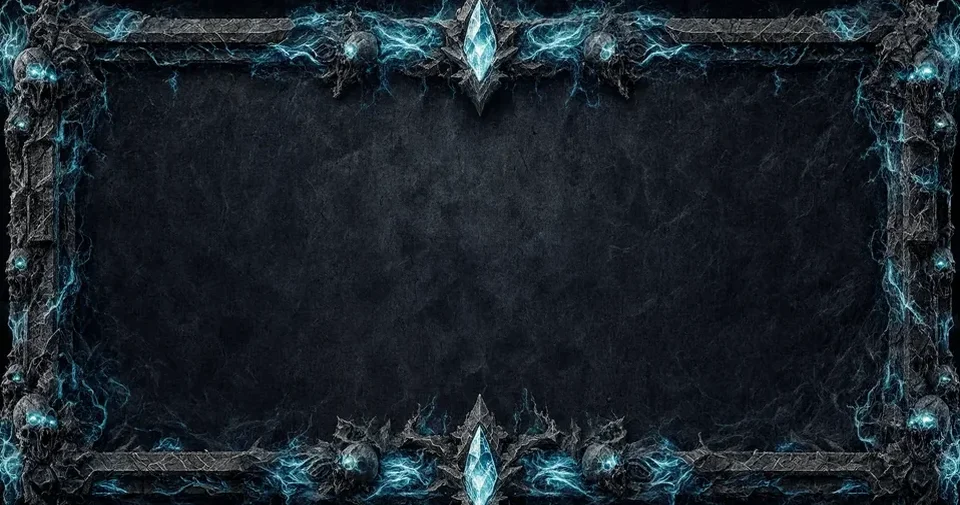
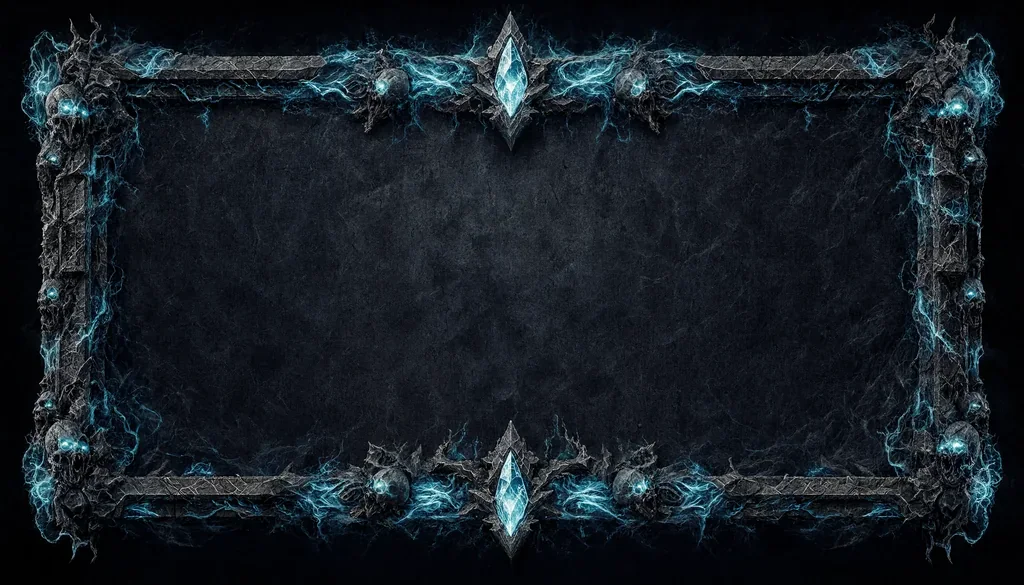
Rayon Herauts : le cadre grave suit les images completes (1024 x 585)
Les huit fichiers public/herauts/*.webp sont remplaces par des images
COMPLETES, 1024 x 585 au lieu de 960 x 505 : la gemme du haut, les pointes et
les coins sont dans le fichier. Les huit sont indexes avec le code.

.heraut-cadre : aspect-ratio 1024 / 585 (cover, centre) -- le cadre se montre
entier, plus aucune coupe. .heraut-dedans, l ouverture de pierre mesuree sur
ces images : 13 % de retrait a gauche et a droite, 20 % en haut et en bas
(valeurs finales, sans ajustement). Les commentaires decrivent la realite :
images completes, plus aucun rognage. Il n y a qu un rendu du cadre (le rayon)
: aucune fenetre d achat ne porte ses propres dimensions.

Verifie a l ecran avec ?test-rotation=1 sur les huit Herauts, en 390 x 844 et
375 x 667 : le cadre est entier (gemmes, pointes, coins), le portrait tient la
gauche de l ouverture (13 a 36,5 % de la largeur) et le nom et la capacite la
droite (39 a 87 %), tous deux entre 20 et 80 % de la hauteur, sans chevaucher
les barres ni les gemmes centrales, sans debordement de texte.

diff --git a/emprise-app/src/App.jsx b/emprise-app/src/App.jsx
@@ -7083,21 +7083,19 @@ const APP_STYLES = `
         .herauts-galerie { display: flex; flex-direction: column; gap: 12px; width: 100%; }
         .heraut-carte { display: flex; flex-direction: column; align-items: center; gap: 5px; width: 100%; }
         .heraut-cadre {
-          position: relative; width: 100%; aspect-ratio: 960 / 505;
+          position: relative; width: 100%; aspect-ratio: 1024 / 585;
           background-size: cover; background-position: center; background-repeat: no-repeat;
           border-radius: 8px;
         }
-        /* L ouverture du cadre grave. Les huit images ont ete recadrees a la
-           meme taille, sans marge noire autour de la pierre : la fenetre est
-           donc LA MEME pour les huit -- 12 % de retrait a gauche et a droite,
-           18 % en haut et en bas. Le portrait de l Ordre tient la gauche, le
-           texte la droite. */
-        /* 15 % et non 18 % en haut et en bas (01/09) : trois points de plus de
-           chaque cote rendent le portrait plus grand d un dixieme, et
-           l ouverture gravee les donne -- verifie a l oeil sur les huit
-           cadres, aucun sujet ne mord la pierre. */
+        /* L ouverture du cadre grave (02/09). Les huit images sont desormais
+           COMPLETES, 1024 x 585, sans aucun rognage : la gemme du haut, les pointes
+           et les coins sont dans le fichier, et le cadre (aspect-ratio 1024 / 585,
+           cover) les montre entiers. La fenetre de pierre est la meme pour les
+           huit, mesuree sur ces images : 13 % de retrait a gauche et a droite,
+           20 % en haut et en bas -- le portrait de l Ordre tient la gauche, le
+           texte la droite, sans chevaucher les barres du cadre ni les gemmes. */
         .heraut-dedans {
-          position: absolute; top: 15%; bottom: 15%; left: 12%; right: 12%;
+          position: absolute; top: 20%; bottom: 20%; left: 13%; right: 13%;
           display: flex; align-items: stretch; gap: 9px;
         }
         /* La boite prend le RAPPORT EXACT du portrait (01/09). Les onze fichiers
